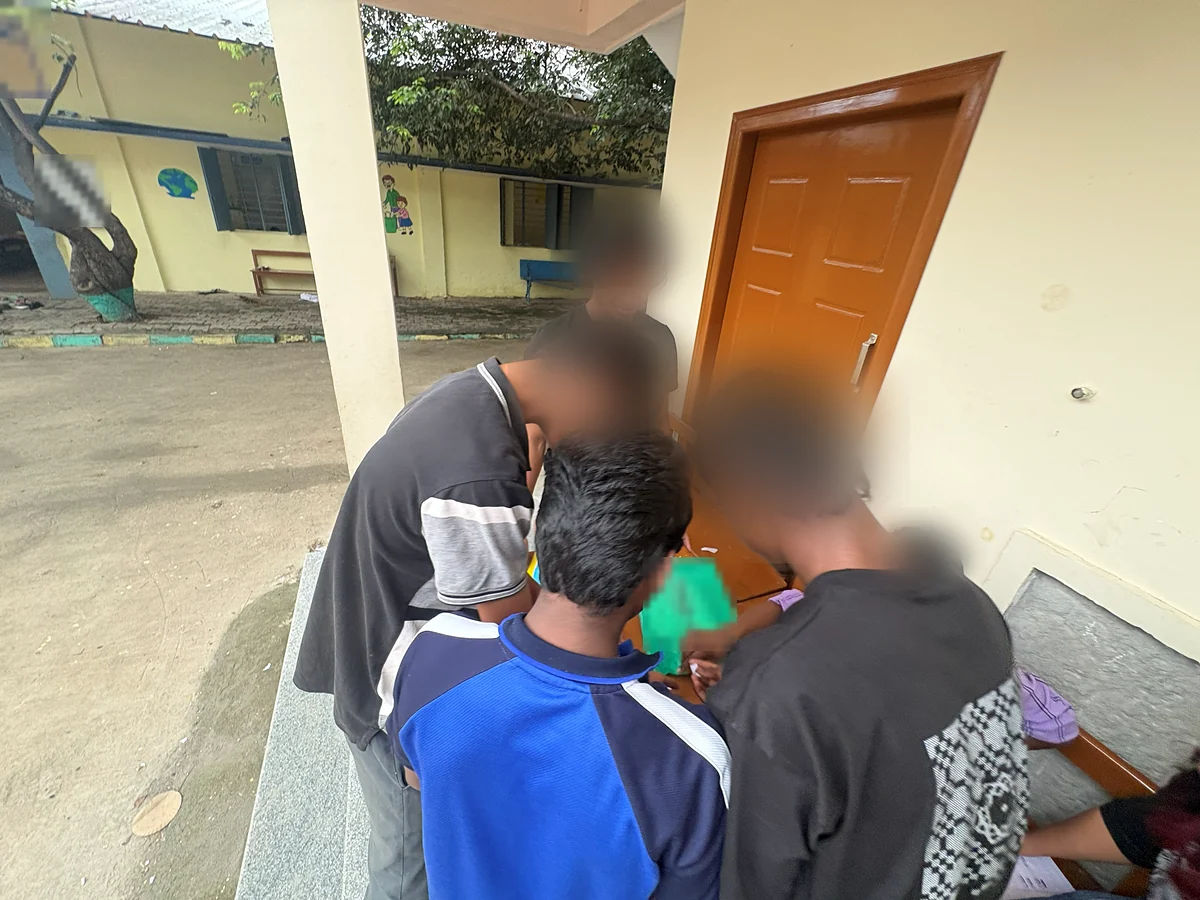
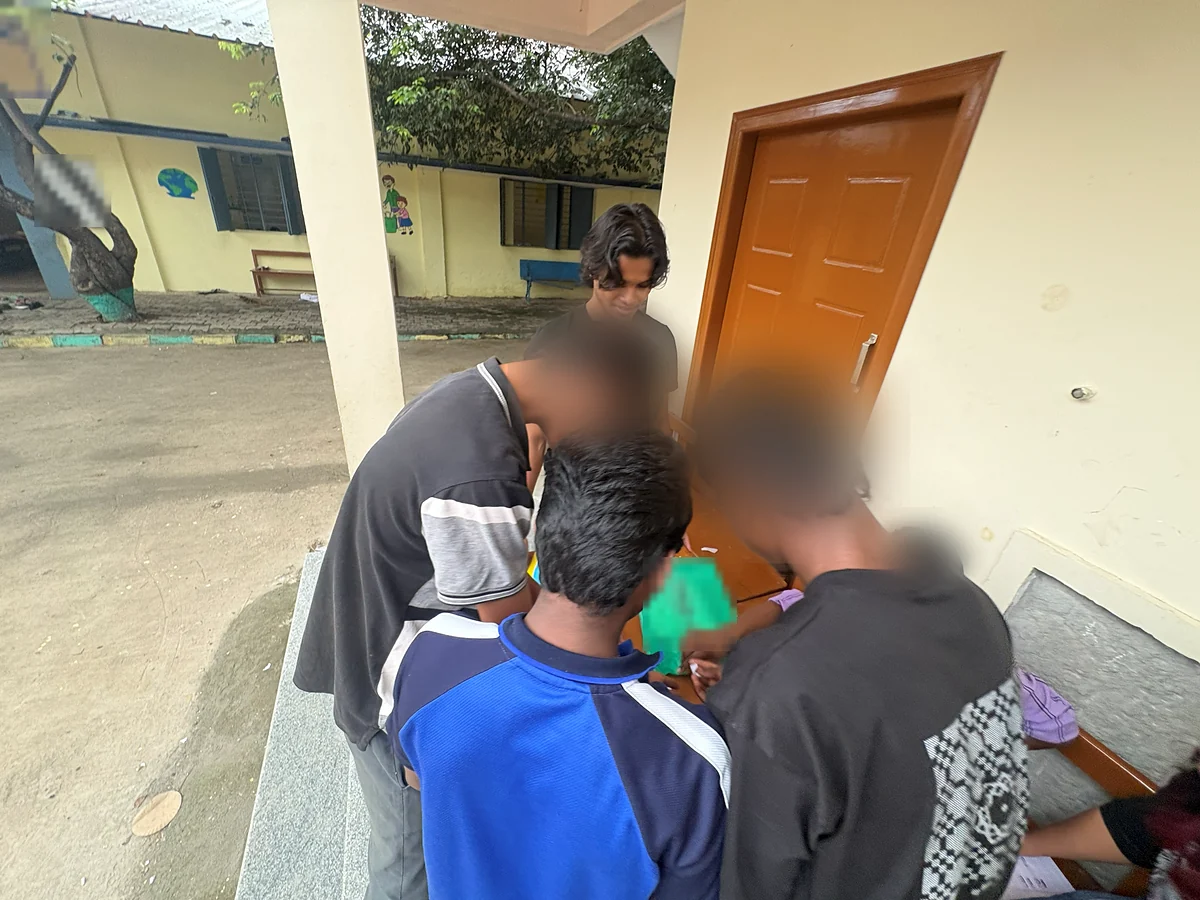
Fundraiser slideshow: unblur the volunteer in the huddle photo
The long-haired person at the back of slide 4 is a volunteer (confirmed by
the team), so his face is shown. The kids' faces, the signs and the name
on the bag stay blurred. The photo's description now mentions him.

Changed region(s): [[0.4625, 0.1867, 0.5858, 0.3422]]

diff --git a/fundraiser.html b/fundraiser.html
@@ -103,7 +103,7 @@
           <figure class="carousel-slide" role="group" aria-roledescription="slide" aria-label="1 of 4"><img src="images/fundraiser-1-1200.webp" srcset="images/fundraiser-1-800.webp 800w, images/fundraiser-1-1200.webp 1200w, images/fundraiser-1-1600.webp 1600w, images/fundraiser-1-2400.webp 2400w" sizes="(min-width: 1024px) 45vw, 100vw" width="1200" height="900" fetchpriority="high" class="block w-full h-auto" alt="Volunteers sitting in a circle on the floor with kids during a class. The kids' faces are blurred."></figure>
           <figure class="carousel-slide" role="group" aria-roledescription="slide" aria-label="2 of 4"><img src="images/fundraiser-2-1200.webp" srcset="images/fundraiser-2-800.webp 800w, images/fundraiser-2-1200.webp 1200w, images/fundraiser-2-1600.webp 1600w, images/fundraiser-2-2400.webp 2400w" sizes="(min-width: 1024px) 45vw, 100vw" width="1200" height="900" loading="lazy" class="block w-full h-auto" alt="Kids drawing with crayons on sheets of paper on the floor. Their faces are blurred."></figure>
           <figure class="carousel-slide" role="group" aria-roledescription="slide" aria-label="3 of 4"><img src="images/fundraiser-3-1200.webp" srcset="images/fundraiser-3-800.webp 800w, images/fundraiser-3-1200.webp 1200w, images/fundraiser-3-1600.webp 1600w, images/fundraiser-3-2400.webp 2400w" sizes="(min-width: 1024px) 45vw, 100vw" width="1200" height="900" loading="lazy" class="block w-full h-auto" alt="A kid holding up his crayon drawing of the Indian flag, with a friend's arm around his shoulder"></figure>
-          <figure class="carousel-slide" role="group" aria-roledescription="slide" aria-label="4 of 4"><img src="images/fundraiser-4-1200.webp" srcset="images/fundraiser-4-800.webp 800w, images/fundraiser-4-1200.webp 1200w, images/fundraiser-4-1600.webp 1600w, images/fundraiser-4-2400.webp 2400w" sizes="(min-width: 1024px) 45vw, 100vw" width="1200" height="900" loading="lazy" class="block w-full h-auto" alt="Kids crowding around a table outside a classroom, working on something together. Faces are blurred."></figure>
+          <figure class="carousel-slide" role="group" aria-roledescription="slide" aria-label="4 of 4"><img src="images/fundraiser-4-1200.webp" srcset="images/fundraiser-4-800.webp 800w, images/fundraiser-4-1200.webp 1200w, images/fundraiser-4-1600.webp 1600w, images/fundraiser-4-2400.webp 2400w" sizes="(min-width: 1024px) 45vw, 100vw" width="1200" height="900" loading="lazy" class="block w-full h-auto" alt="A volunteer and kids crowding around a table outside a classroom, working on something together. The kids&#39; faces are blurred."></figure>
         </div>
         <div class="mt-3 flex items-center justify-between gap-3">
           <p class="text-sm text-white">Weekly classes at Maho. The kids' faces are blurred to protect their privacy.</p>
